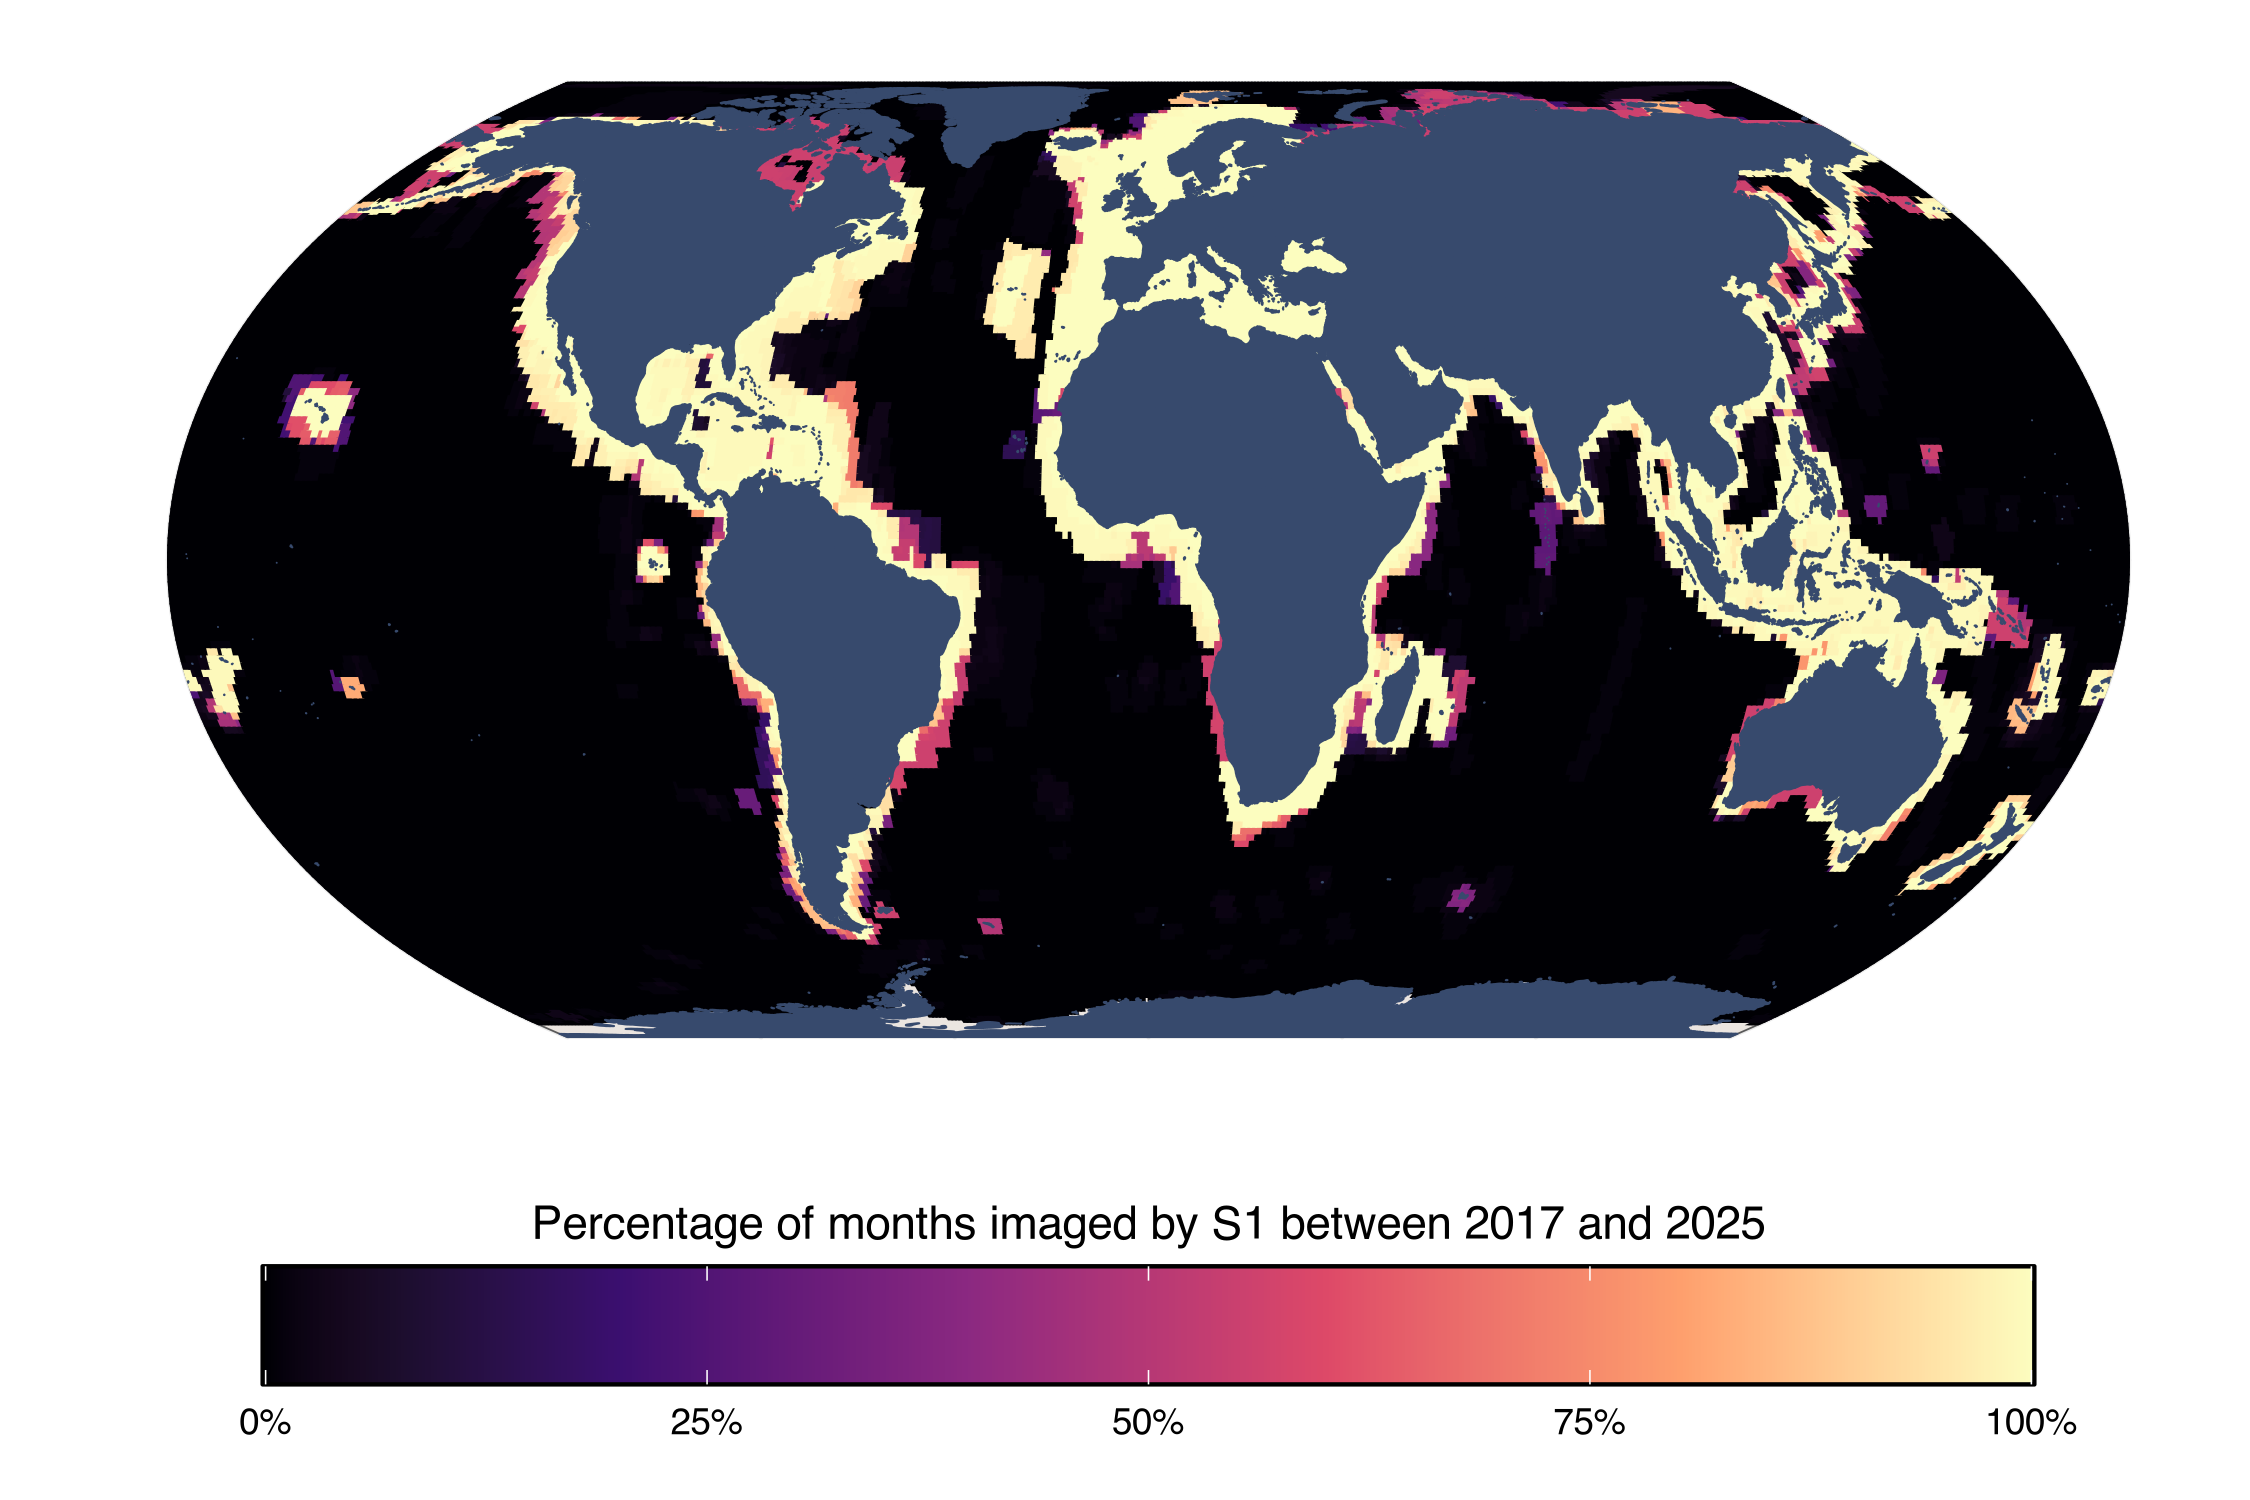
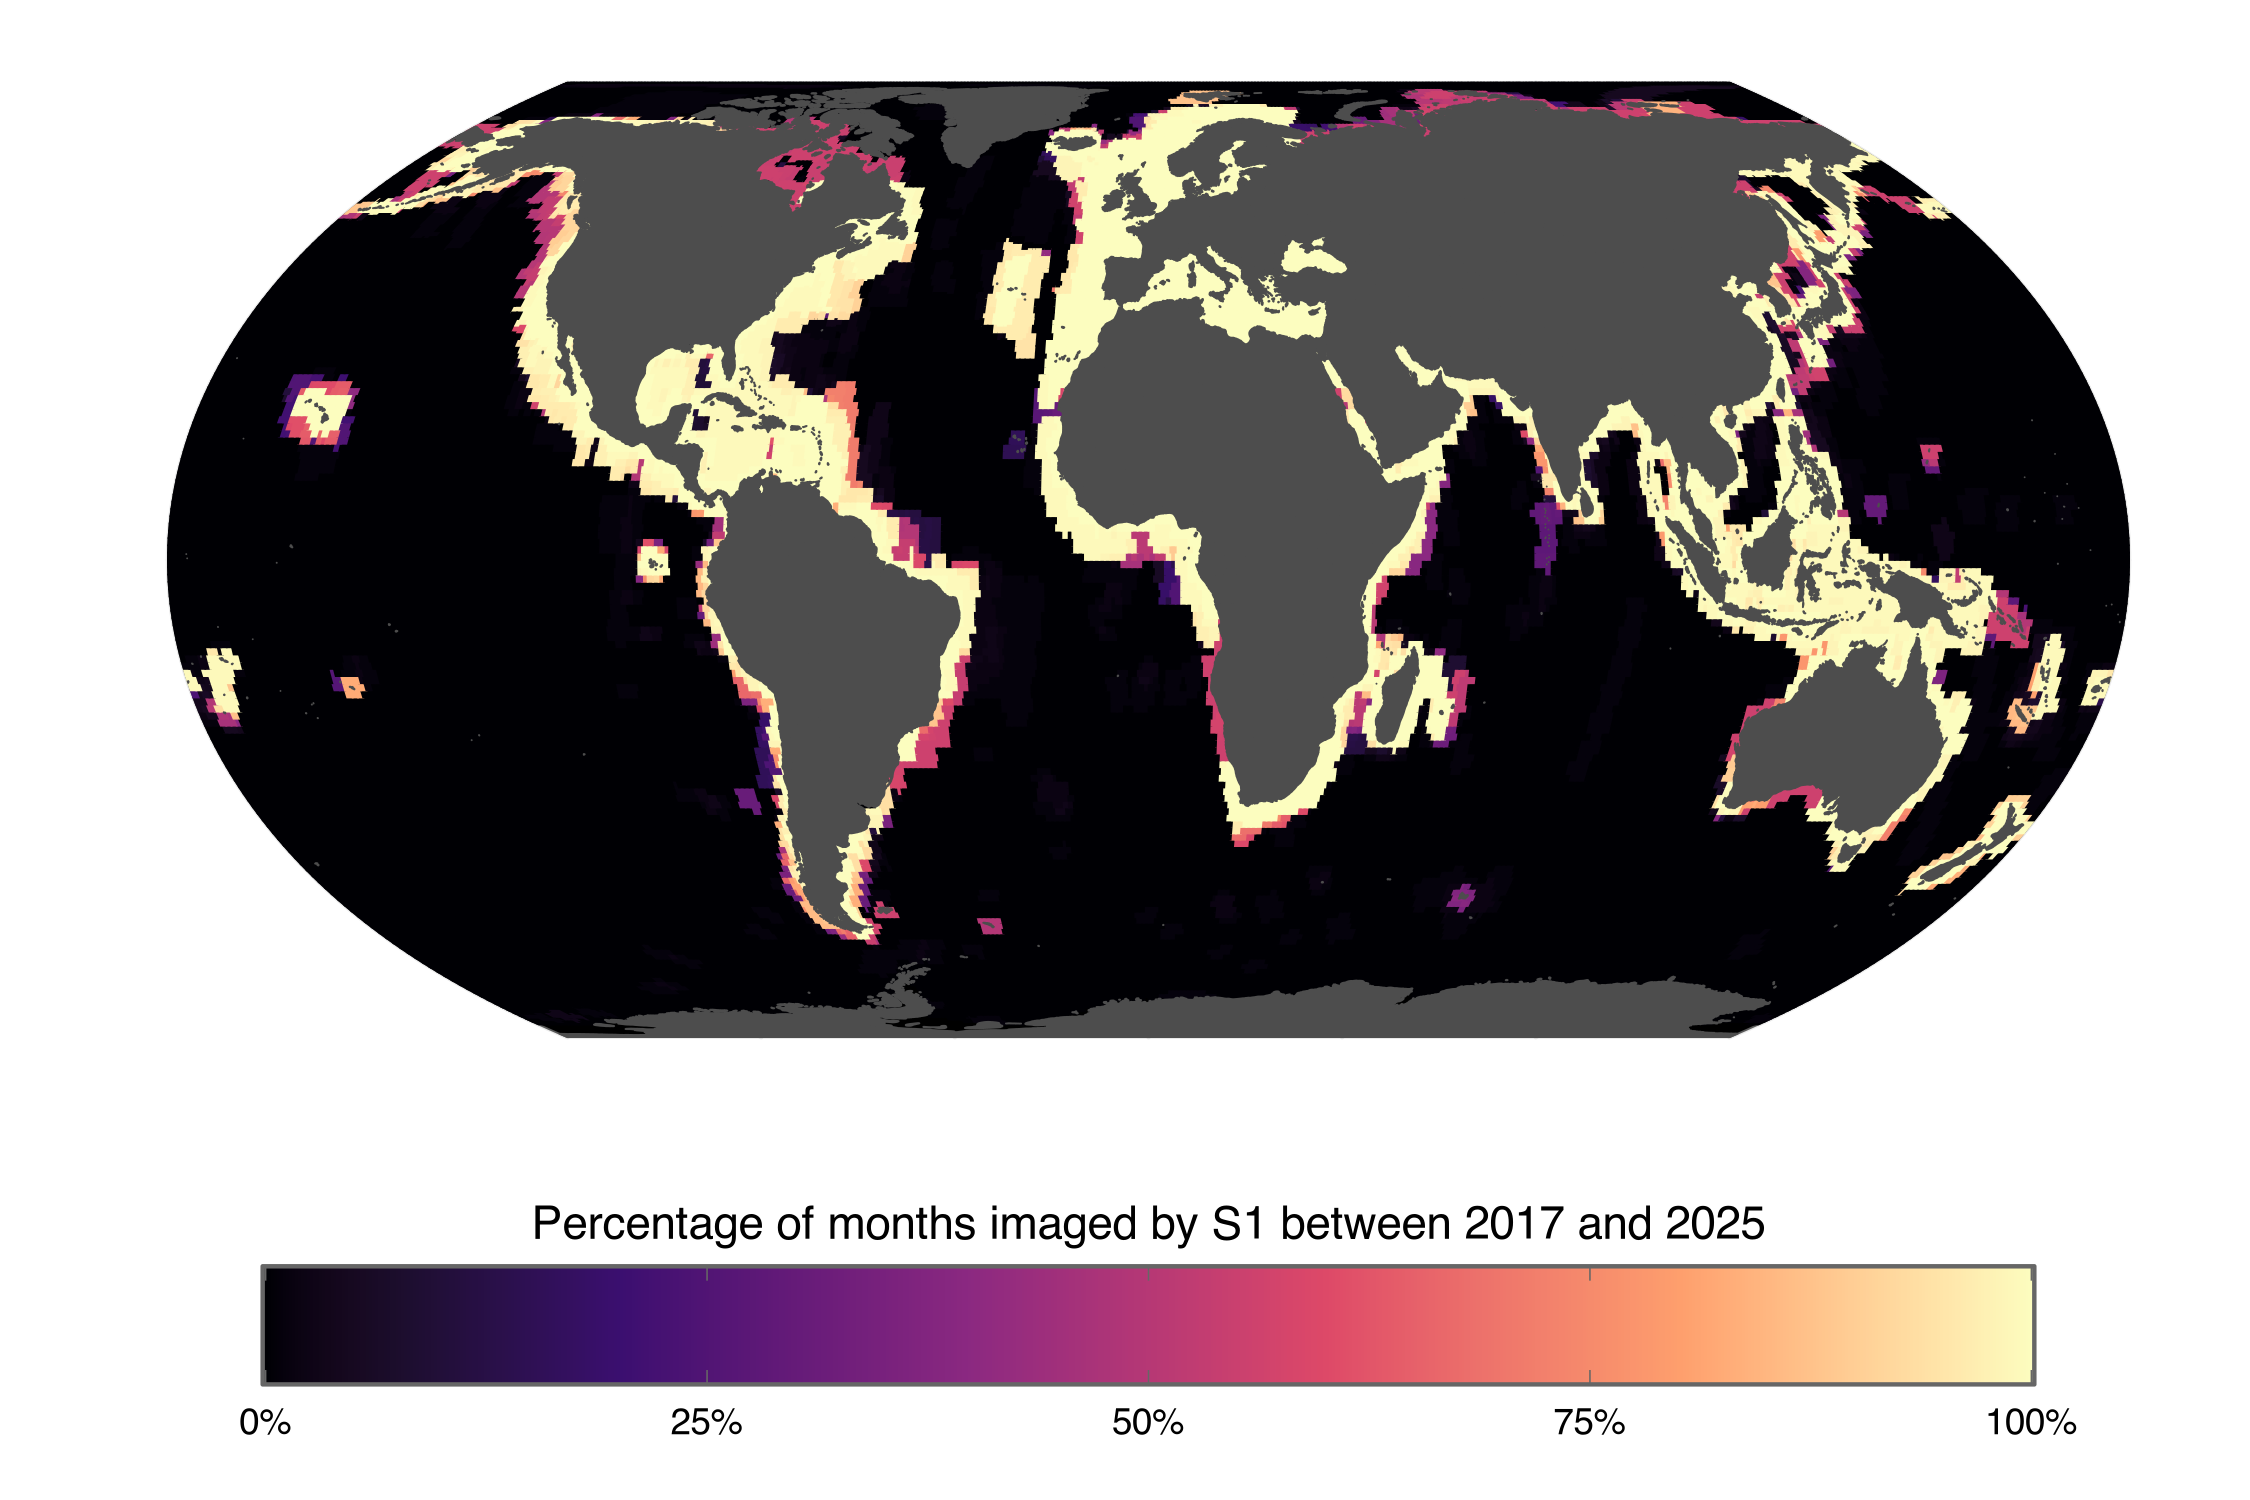
Remove pooling of minor vessel classes in Figure 3A; show all classes individually

diff --git a/main.tex b/main.tex
@@ -115,7 +115,7 @@ Our vessel-level AIS-broadcasting emissions data provide a detailed understandin
  \begin{figure}[H]
     \centering
     \includegraphics[width=\columnwidth]{figures/fig-ais-data-richness-1.png}
-    \caption{Richness of AIS-broadcasting vessel emissions data, showing: (A) CO$_{2}$ emissions by vessel class for AIS-broadcasting vessels during different activity types (international trips, port stays, and domestic trips), aggregated for activities ending in 2025. Vessel classes are grouped into four families, with the total for each family shown at the top right of its panel; within a family the 5 highest-emitting classes are shown individually and any remaining classes are pooled into a single row. (B) Spatial distribution of 2025 CO$_{2}$ emissions from AIS-broadcasting vessels for each of those same vessel class families, shown at a 1x1 degree spatial resolution; emissions are area-normalized for each pixel (metric tonnes per square kilometer, shown on a pseudolog-10 scale). Panels appear in the same order in both panels of the figure, though panel A covers only emissions assignable to trips and port stays while panel B covers all AIS-broadcasting emissions.}
+    \caption{Richness of AIS-broadcasting vessel emissions data, showing: (A) CO$_{2}$ emissions by vessel class for AIS-broadcasting vessels during different activity types (international trips, port stays, and domestic trips), aggregated for activities ending in 2025. Vessel classes are grouped into four families, with the total for each family shown at the top right of its panel; every class in a family is shown as its own bar, so panel heights differ with the number of classes. (B) Spatial distribution of 2025 CO$_{2}$ emissions from AIS-broadcasting vessels for each of those same vessel class families, shown at a 1x1 degree spatial resolution; emissions are area-normalized for each pixel (metric tonnes per square kilometer, shown on a pseudolog-10 scale). Panels appear in the same order in both panels of the figure, though panel A covers only emissions assignable to trips and port stays while panel B covers all AIS-broadcasting emissions.}
     \label{fig:fig-ais-data-richness}
 \end{figure}
 
